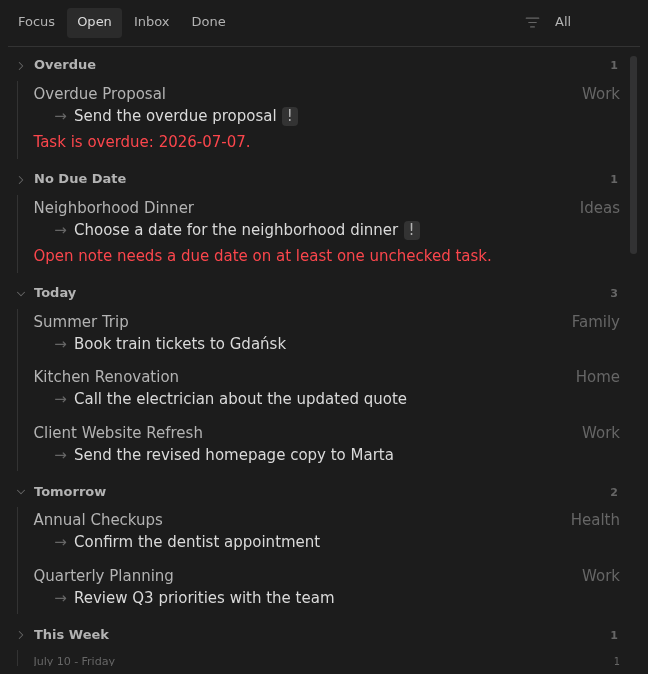
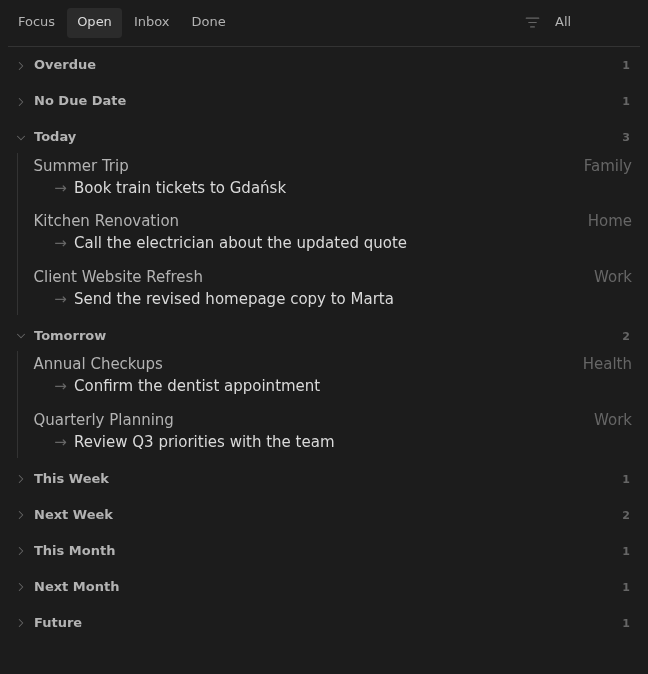
save

diff --git a/acceptance/support/tasks-eye-page.ts b/acceptance/support/tasks-eye-page.ts
@@ -55,7 +55,17 @@ async function bucketExpanded(bucket: DueBucket): Promise<boolean | null> {
     );
     const value = group?.querySelector(".eye-bucket-header")
       ?.getAttribute("aria-expanded");
-    return value === null || value === undefined ? null : value === "true";
+    const children = group?.querySelector<HTMLElement>(".eye-bucket-children");
+    if (value == null || !children) return null;
+    const expanded = value === "true";
+    // Check browser layout, not just attributes: author CSS can override hidden.
+    const contents = [children, ...children.querySelectorAll<HTMLElement>(".eye-row")];
+    const visibilityMatches = contents.every((element) => {
+      const rendered = element.getClientRects().length > 0 &&
+        getComputedStyle(element).visibility === "visible";
+      return rendered === expanded;
+    });
+    return visibilityMatches ? expanded : null;
   }, bucket);
 }
 
@@ -135,7 +145,7 @@ export const tasksEyePage = {
     await browser.waitUntil(async () =>
       await bucketExpanded(bucket) === expanded, {
       timeout: 10_000,
-      timeoutMsg: `Expected ${bucket} bucket to be ${expanded ? "expanded" : "collapsed"}`,
+      timeoutMsg: `Expected ${bucket} bucket ARIA state and rendered contents to be ${expanded ? "expanded and visible" : "collapsed and hidden"}`,
     });
   },
 
@@ -148,6 +158,15 @@ export const tasksEyePage = {
       return header !== null;
     }, bucket);
     if (!toggled) throw new Error(`Missing ${bucket} bucket`);
+  },
+
+  async toggleBucketWithKey(bucket: DueBucket, key: "Enter" | "Space"): Promise<void> {
+    const header = await $(
+      `${PLUGIN} .eye-bucket[data-eye-bucket="${bucket}"] .eye-bucket-header`,
+    );
+    await header.waitForDisplayed();
+    await browser.execute((element) => element.focus(), header);
+    await browser.keys(key);
   },
 
   async expandBucketForText(text: string): Promise<void> {

diff --git a/features/views-open/wdio.ts b/features/views-open/wdio.ts
@@ -95,7 +95,9 @@ export const { acceptanceScenarios, screenshotScenarios } = featureScenarios(
           await expectDefaultOpenBuckets();
 
           await tasksEyePage.toggleBucket("tomorrow");
+          await tasksEyePage.expectBucketExpanded("tomorrow", true);
           await tasksEyePage.toggleBucket("today");
+          await tasksEyePage.expectBucketExpanded("today", false);
           await tasksEyePage.requestRender();
           await tasksEyePage.expectBucketExpanded("tomorrow", true);
           await tasksEyePage.expectBucketExpanded("today", false);
@@ -108,6 +110,18 @@ export const { acceptanceScenarios, screenshotScenarios } = featureScenarios(
           await tasksEyePage.closePane();
           await tasksEyePage.openBoard("open", TODAY_ANCHOR);
           await expectDefaultOpenBuckets();
+        },
+      },
+      {
+        title: "hides and reveals group contents with Enter and Space",
+        async run() {
+          await tasksEyePage.openBoard("open", TODAY_ANCHOR);
+          for (const key of ["Enter", "Space"] as const) {
+            await tasksEyePage.toggleBucketWithKey("today", key);
+            await tasksEyePage.expectBucketExpanded("today", false);
+            await tasksEyePage.toggleBucketWithKey("today", key);
+            await tasksEyePage.expectBucketExpanded("today", true);
+          }
         },
       },
     ],

diff --git a/features/views-inbox/wdio.ts b/features/views-inbox/wdio.ts
@@ -223,6 +223,19 @@ export const { acceptanceScenarios, screenshotScenarios } = featureScenarios(
   {
     acceptance: [
       {
+        title:
+          "hides collapsed issue groups and reveals them when expanded again",
+        async run() {
+          await tasksEyePage.openBoard("inbox", OPEN_WITHOUT_TASK);
+          await tasksEyePage.expectBucketExpanded("noDue", true);
+          await tasksEyePage.toggleBucket("noDue");
+          await tasksEyePage.expectBucketExpanded("noDue", false);
+          await tasksEyePage.expectBucketExpanded("today", true);
+          await tasksEyePage.toggleBucket("noDue");
+          await tasksEyePage.expectBucketExpanded("noDue", true);
+        },
+      },
+      {
         title: "reuses expanded note-first board rows for the issue list",
         async run() {
           await tasksEyePage.openBoard("inbox", OPEN_WITHOUT_TASK);

diff --git a/styles.css b/styles.css
@@ -217,6 +217,10 @@
   padding-left: 10px;
 }
 
+.eye-bucket-children[hidden] {
+  display: none;
+}
+
 .eye-bucket-count {
   background: var(--background-modifier-border);
   border-radius: 999px;
